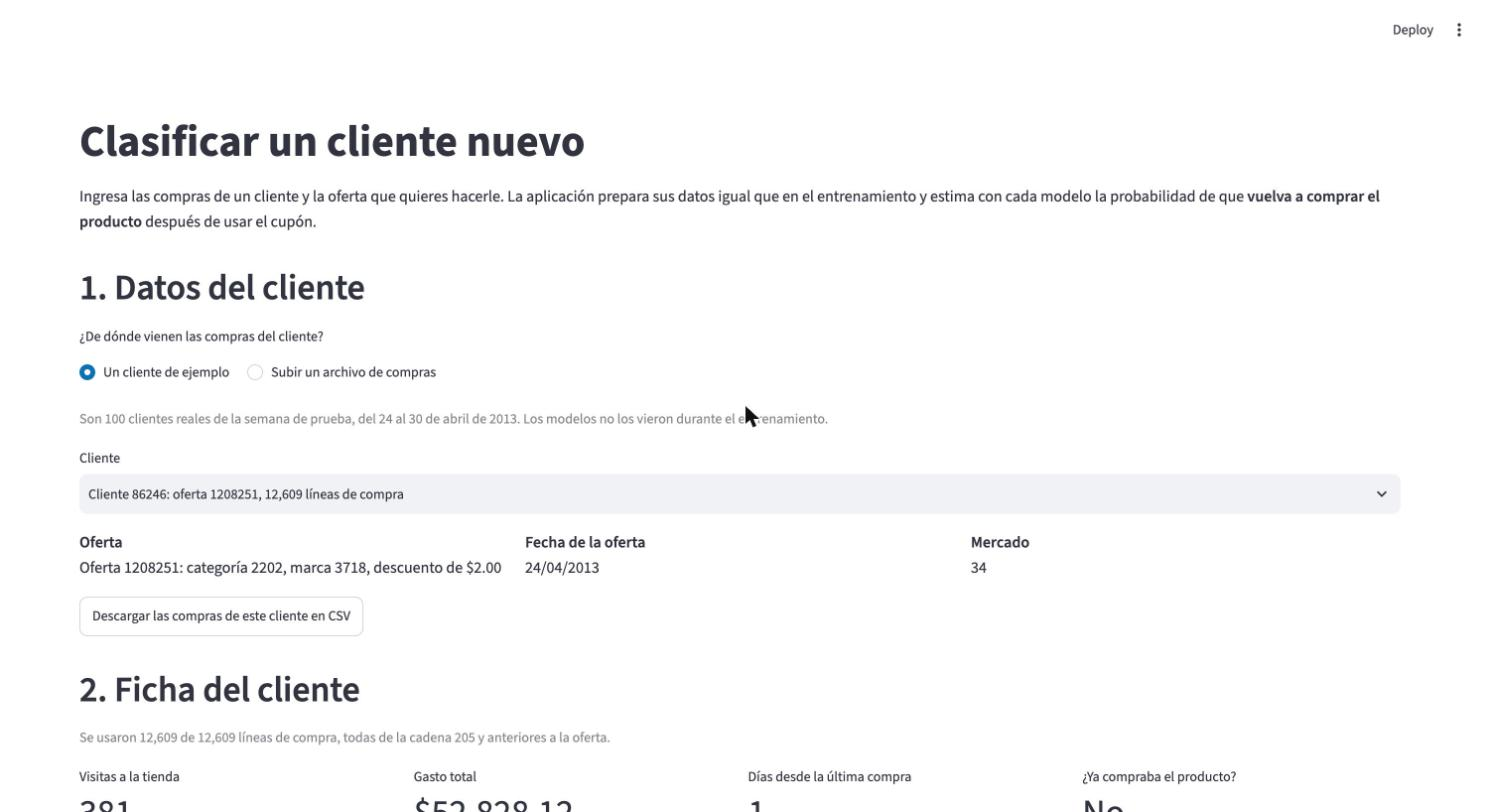
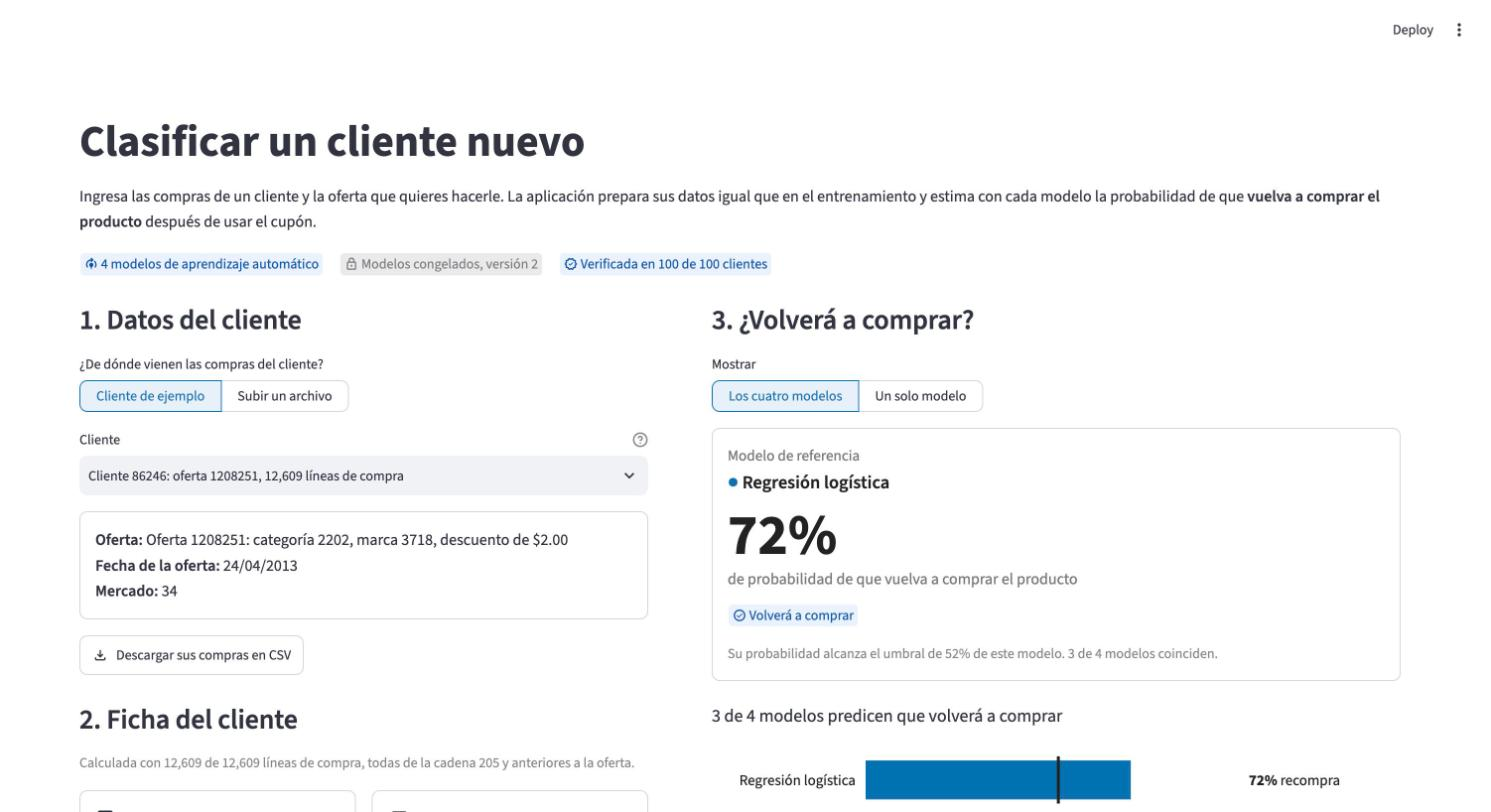
[UPDATE] capturas y seccion del informe con el nuevo diseno de Clasificar

diff --git a/informe/resultados/08b_clasificar_y_preprocesamiento.md b/informe/resultados/08b_clasificar_y_preprocesamiento.md
@@ -9,7 +9,7 @@ El usuario puede ingresar al cliente de dos formas:
 - **Un cliente de ejemplo.** La aplicación incluye 100 clientes reales de la semana de prueba, con sus 119,819 líneas de compra originales. Los modelos no vieron a estos clientes durante el entrenamiento. Al elegir uno, la página muestra su oferta, la fecha de la oferta y su mercado, y permite descargar sus compras en CSV como modelo del formato.
 - **Un archivo propio.** El usuario sube un CSV con las compras de un cliente, en el formato de las transacciones de la competencia, y elige la oferta que se le hará, la fecha de la oferta y el mercado.
 
-![Ingreso de los datos y ficha del cliente en la página Clasificar](../../results/figures/09_app_clasificar_datos.jpg)
+![Ingreso de los datos y resumen de la predicción en la página Clasificar](../../results/figures/09_app_clasificar_datos.jpg)
 
 ## Preprocesamiento invisible para el usuario
 
@@ -37,6 +37,8 @@ Antes de calcular, el módulo revisa los datos y responde con un mensaje claro e
 
 La página carga los cuatro modelos congelados de la versión 2 una sola vez y solo les pide predicciones; nunca los vuelve a entrenar. Antes de usarlos, el cargador comprueba que cada archivo no haya cambiado y que la versión de scikit-learn sea la misma con que se entrenaron.
 
+La página se divide en dos columnas: a la izquierda los datos y la ficha del cliente, y a la derecha el resultado, para ver ambos sin desplazarse. El resultado empieza con una tarjeta que destaca la probabilidad que asigna la regresión logística, el modelo de referencia, si alcanza su umbral y cuántos de los cuatro modelos coinciden con ella.
+
 El usuario elige ver los cuatro modelos o uno solo. Para cada modelo, la gráfica muestra:
 
 - la probabilidad de recompra en una barra, con el color fijo de ese modelo en todo el proyecto;
@@ -45,7 +47,7 @@ El usuario elige ver los cuatro modelos o uno solo. Para cada modelo, la gráfic
 
 El título de la gráfica resume la respuesta, por ejemplo "3 de 4 modelos predicen que volverá a comprar". Con un cliente de ejemplo, el usuario también puede revelar qué pasó en la realidad y compararlo con la predicción.
 
-![Probabilidad de recompra según los cuatro modelos en la página Clasificar](../../results/figures/09_app_clasificar_resultado.jpg)
+![Ficha del cliente y probabilidad de recompra según los cuatro modelos en la página Clasificar](../../results/figures/09_app_clasificar_resultado.jpg)
 
 Debajo, una segunda gráfica conecta la predicción con el hallazgo central del análisis exploratorio. Entre los clientes que ya habían comprado el producto ofertado, el 42.8% volvió a comprar, frente al 24.2% de los que nunca lo habían comprado. La gráfica resalta el grupo al que pertenece el cliente, para que el usuario entienda por qué los modelos le asignan esa probabilidad.
 
